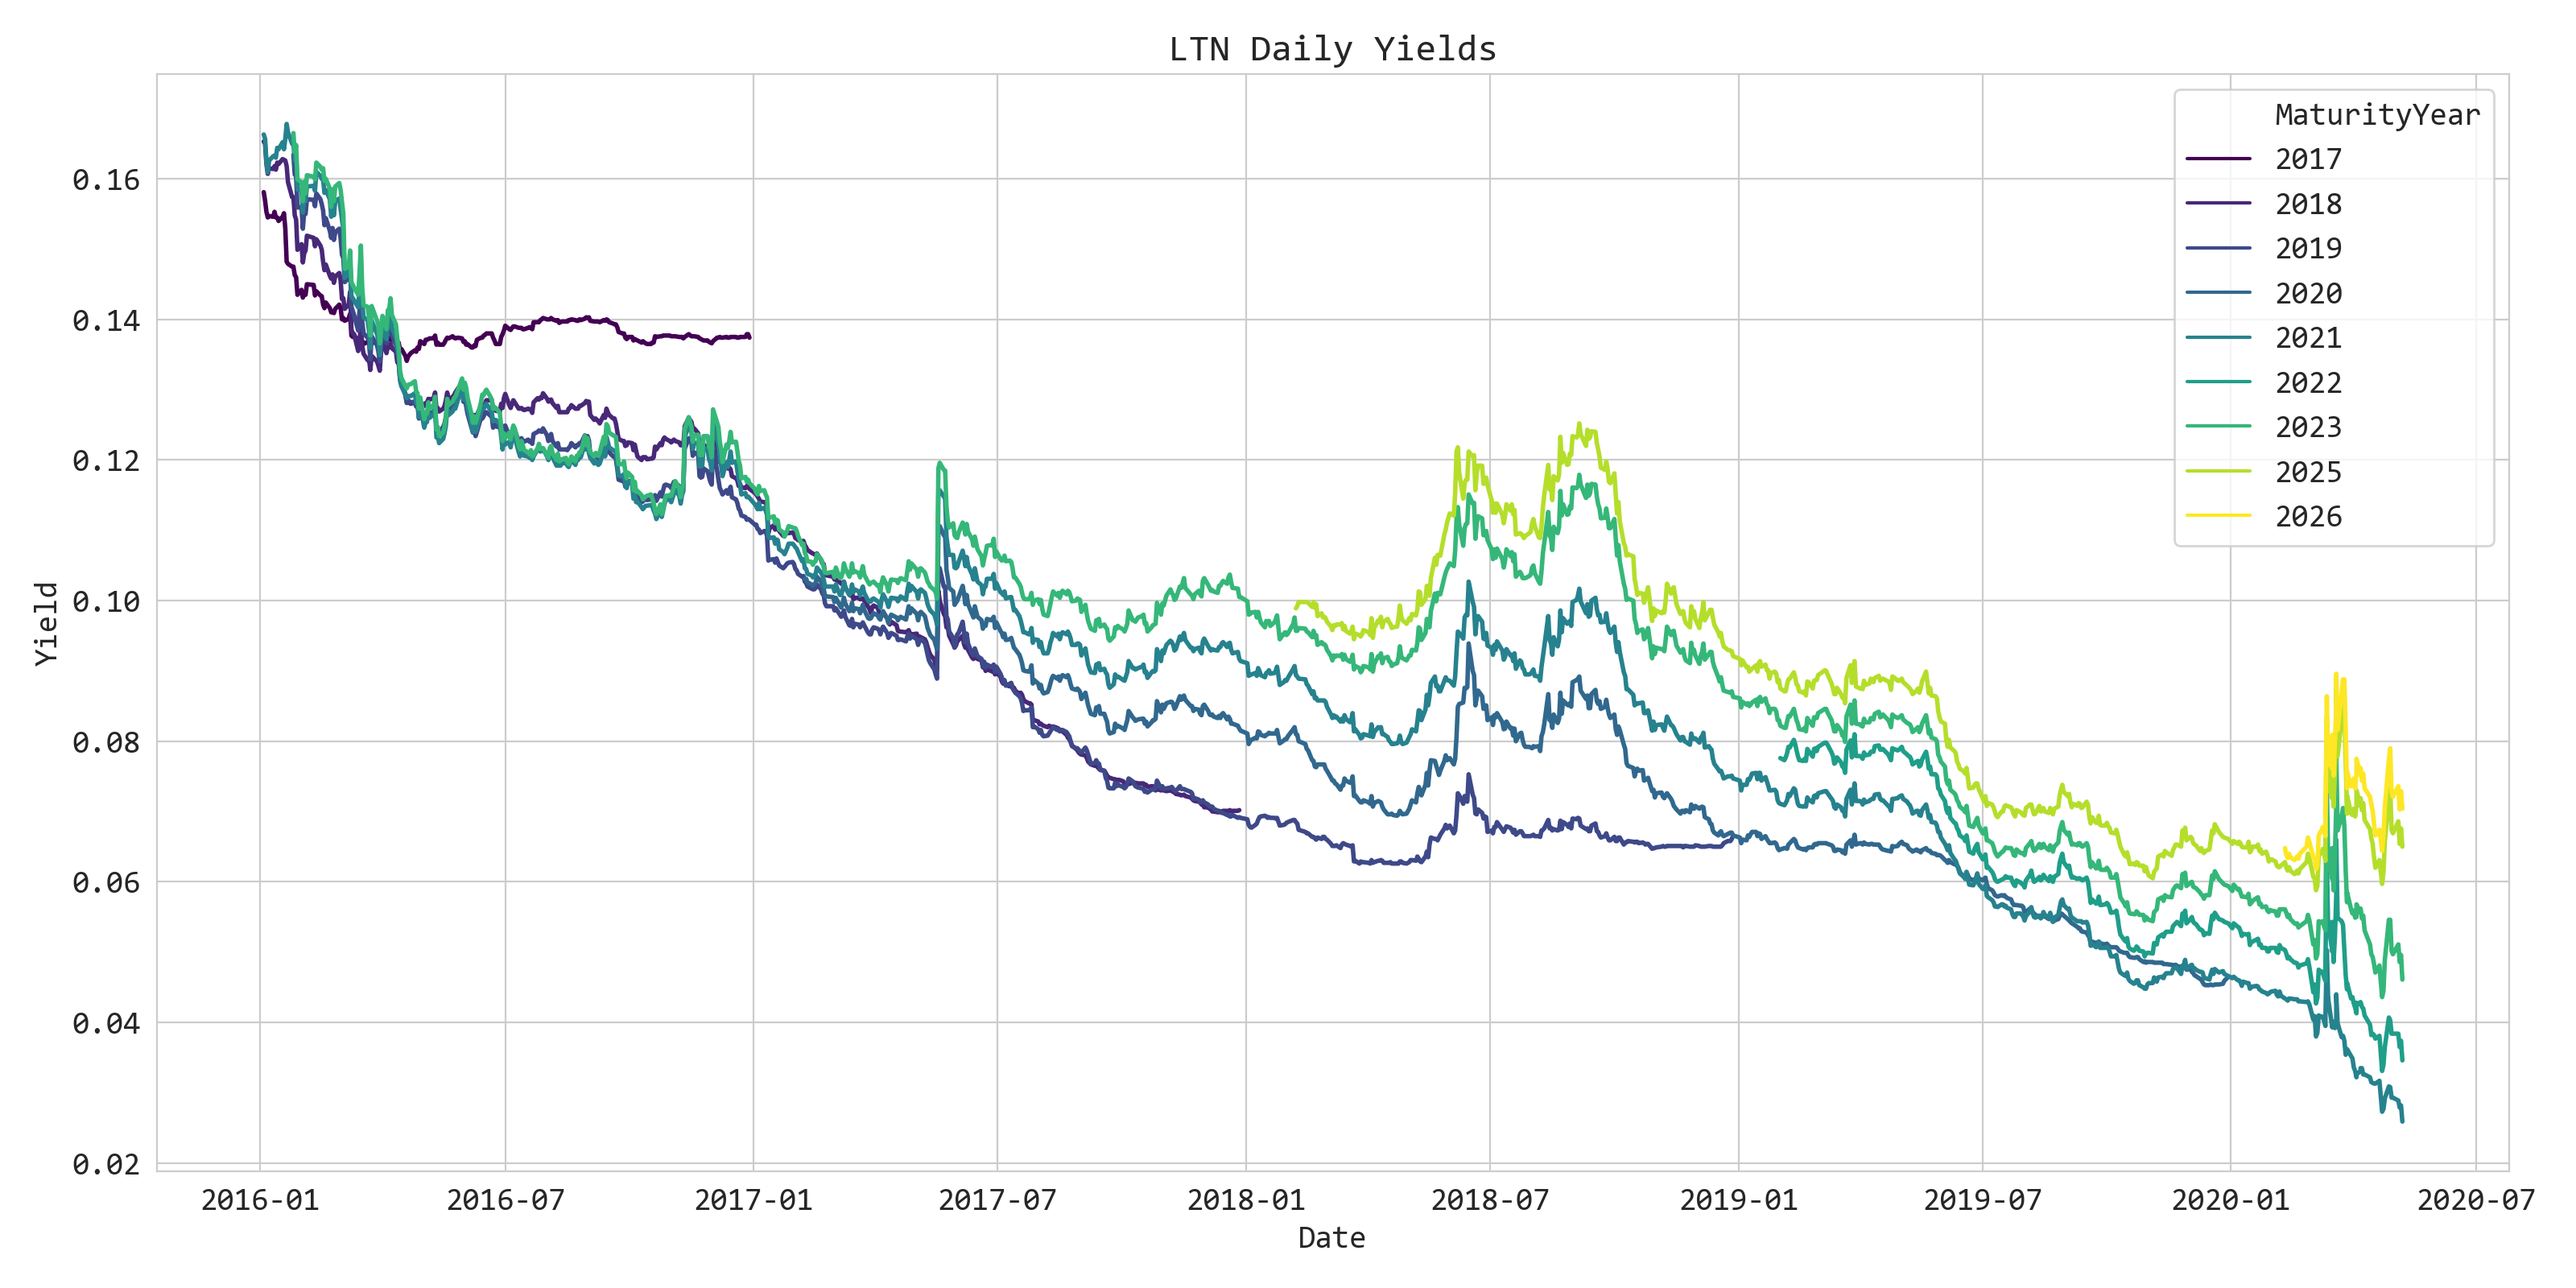
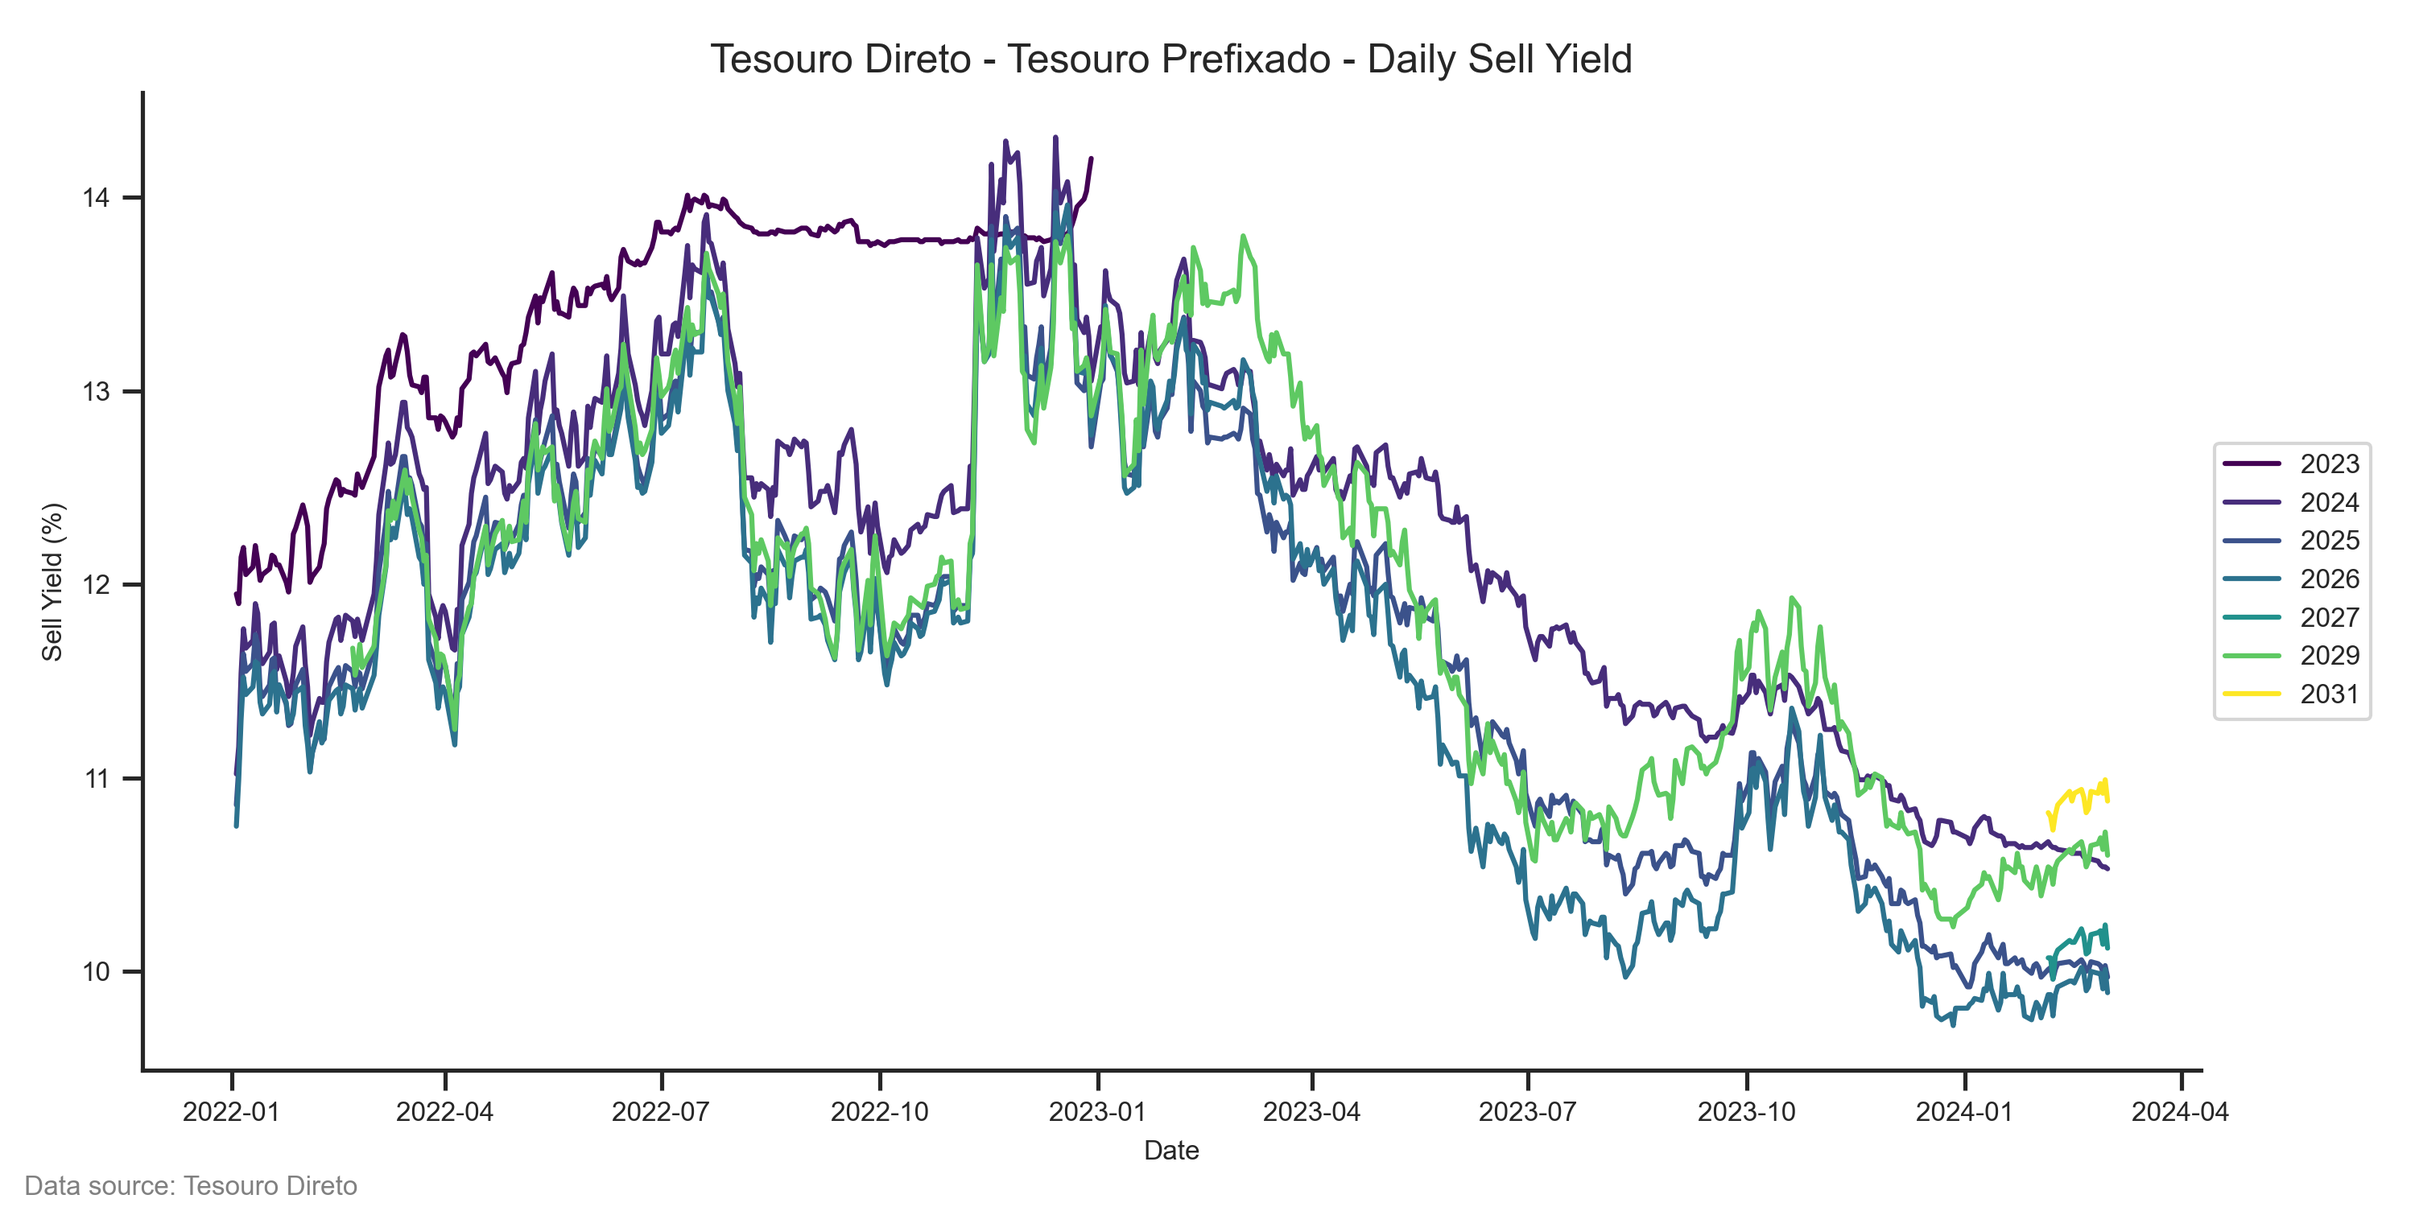
Update README and plot

diff --git a/plot.py b/plot.py
@@ -1,0 +1,51 @@
+import matplotlib.pyplot as plt
+import seaborn as sns
+
+from tddata.reader import read
+
+
+data = read("data/tesouro-direto_202403021021.csv")
+data = data[data["reference_date"] >= "2022-01-01"]
+data = data.assign(maturity_year=lambda x: x["maturity_date"].dt.year)
+print(data)
+
+sns.set_theme(style="ticks")
+plt.rcParams["axes.labelsize"] = 8
+plt.rcParams["axes.titlesize"] = 12
+plt.rcParams["xtick.labelsize"] = 8
+plt.rcParams["ytick.labelsize"] = 8
+plt.rcParams["legend.fontsize"] = 8
+
+
+tipo_titulo = "Tesouro Prefixado"
+f, ax = plt.subplots(figsize=(10, 5))
+sns.lineplot(
+    data=data[data["bond_type"] == tipo_titulo],
+    x="reference_date",
+    y="sell_yield",
+    hue="maturity_year",
+    estimator=None,
+    ax=ax,
+    palette="viridis",
+    legend="full",
+    linewidth=1.5,
+)
+ax.set_title(f"Tesouro Direto - {tipo_titulo} - Daily Sell Yield")
+ax.set_xlabel("Date")
+ax.set_ylabel("Sell Yield (%)")
+# Legend position
+ax.legend(loc="center left", bbox_to_anchor=(1, 0.5))
+# Grid off
+sns.despine(ax=ax)
+f.tight_layout()
+# Add text with the data source at the bottom left of the figure
+plt.figtext(
+    0.01,
+    0.01,
+    "Data source: Tesouro Direto",
+    horizontalalignment="left",
+    fontsize=8,
+    color="gray",
+)
+plt.savefig(f"plots/plot1.png", dpi=300)
+plt.close()

diff --git a/README.md b/README.md
@@ -71,31 +71,56 @@ import seaborn as sns
 import tddata
 
 
-ltn = tddata.reader.read("data/tesouro-direto_202403021021.csv")
+data = tddata.reader.read("data/tesouro-direto_202403021021.csv")
 
 # Filter data by date and create a new column with the bond's year of maturity
-ltn = ltn[ltn["reference_date"] >= "2016-01-01"]
+ltn = data[data["bond_name"] == "Tesouro Prefixado"]
+ltn = ltn[ltn["reference_date"] >= "2022-01-01"]
 ltn = ltn.assign(
-	maturity_year=ltn["reference_date"].dt.year,
+    maturity_year=ltn["reference_date"].dt.year,
 )
 
 # Now plot the data with matplotlib and seaborn
+
+# Set the style of the plot
+sns.set_theme(style="ticks")
+plt.rcParams["axes.labelsize"] = 8
+plt.rcParams["axes.titlesize"] = 12
+plt.rcParams["xtick.labelsize"] = 8
+plt.rcParams["ytick.labelsize"] = 8
+plt.rcParams["legend.fontsize"] = 8
+
 # With the hue argument we plot each year of maturity by a diferent lines and colors
-f, ax = plt.subplots()
-f.set_size_inches(16, 8)
+bond_tyle = "Tesouro Prefixado"
+f, ax = plt.subplots(figsize=(10, 5))
 sns.lineplot(
-	x="reference_date",
-	y="sell_yield",
-	hue="maturity_year",
-	ax=ax,
-	data=ltn,
-	palette="viridis",
+    data=data[data["bond_type"] == bond_tyle],
+    x="reference_date",
+    y="sell_yield",
+    hue="maturity_year",
+    estimator=None,
+    ax=ax,
+    palette="viridis",
     legend="full",
+    linewidth=1.5,
 )
-ax.set_title("LTN Daily Yield")
+ax.set_title(f"Tesouro Direto - {bond_tyle} - Daily Sell Yield")
 ax.set_xlabel("Date")
-ax.set_ylabel("Sell Yield")
-plt.tight_layout()
+ax.set_ylabel("Sell Yield (%)")
+# Legend position
+ax.legend(loc="center left", bbox_to_anchor=(1, 0.5))
+# Grid off
+sns.despine(ax=ax)
+f.tight_layout()
+# Add text with the data source at the bottom left of the figure
+plt.figtext(
+    0.01,
+    0.01,
+    "Data source: Tesouro Direto",
+    horizontalalignment="left",
+    fontsize=8,
+    color="gray",
+)
 plt.show()
 ```
 
